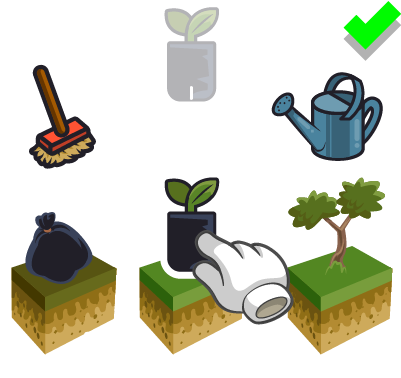
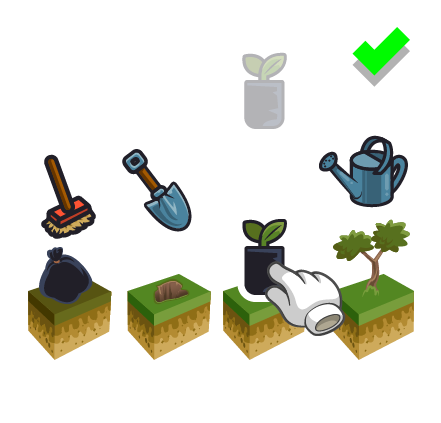
galacticPool changed education fixes and greenRescue changed tutorialImage and education fixes

diff --git a/newStructure/minigames/galacticPool/js/scenes/galacticPool.js b/newStructure/minigames/galacticPool/js/scenes/galacticPool.js
@@ -192,7 +192,6 @@ var galacticPool = function(){
 	var planetsNames;
 	var positionPoolX=[];
 	var positionPoolY=[];
-	var target=[];
 	var handFollowing;
 	var tutoPlanet;
 	var positionX=[];
@@ -258,9 +257,11 @@ var galacticPool = function(){
 
 
 	function reset(){
-		
+
 		for(var resetPlanets=0; resetPlanets<planets.length; resetPlanets++){
 			game.add.tween(planets[resetPlanets].spines).to({alpha:0},1000,Phaser.Easing.Cubic.In,true)
+			game.add.tween(planets[resetPlanets].text).to({alpha:0},1000,Phaser.Easing.Cubic.In,true)
+			game.add.tween(targets[resetPlanets]).to({alpha:0},1000,Phaser.Easing.Cubic.In,true)
 		}
 		if(pointsBar.number>40 && dificulty<2){
 			dificulty++;
@@ -290,14 +291,12 @@ var galacticPool = function(){
 			stickAnimation();
 		});
 	}
-
-
 	function dragging(obj){
 		if(dificulty>=2){
 
 			canCollide=false;
-			obj.body.velocity.setTo(0,0);
-			obj.body.gravity.set(0, 0);
+			obj.body.setZeroVelocity();
+			obj.body.data.shapes[0].sensor= true;
 		}
 		if(dificulty>=3){
 			obj.changing=false;
@@ -402,8 +401,6 @@ var galacticPool = function(){
 			correctParticle.x = planet.centerX;
 			correctParticle.y = planet.centerY;
 			correctParticle.start(true, 1200, null, 10)
-//			planet.body.x=target.x;
-//			planet.body.y=target.y;
 			game.add.tween(planet.body).to({x:target.x,y:target.y},100,Phaser.Easing.Cubic.In,true);
 			planet.text.alpha=1;
 			speedTimer-=200;
@@ -423,14 +420,10 @@ var galacticPool = function(){
 				goal=0;
 				hand.alpha=0
 			}
-
-
 		}else if(!tutorial){
 			missPoint();
 			for(var checkRightPlace=0; checkRightPlace<planets.length; checkRightPlace++){
 				if(planet.tag==targets[checkRightPlace].tag){
-//					planet.body.x=positionX[checkRightPlace];
-//					planet.body.y=positionY[checkRightPlace];
 					game.add.tween(planet.body).to({x:positionX[checkRightPlace],y:positionY[checkRightPlace]},100,Phaser.Easing.Cubic.In,true);
 					planet.text.alpha=1;
 					planet.inputEnabled=false;
@@ -446,46 +439,42 @@ var galacticPool = function(){
 		star.scale.setTo(0.4,0.4)
 		star.anchor.setTo(0.5,0.5)
 		star.tint=0x00ffff
-		
+
 		star2 = game.make.sprite(-300, 0, "atlas.galacticPool",'star_2');
 		star2.scale.setTo(0.5,0.5)
 		star2.anchor.setTo(0.5,0.5)
 		star2.tint=0xff0000
-		
+
 		star3 = game.make.sprite(-300, 0, "atlas.galacticPool",'star_3');
 		star3.scale.setTo(0.5,0.5)
 		star3.anchor.setTo(0.5,0.5)
 		star3.tint=0xffff00
-		
+
 		texture = game.add.renderTexture(game.world.width, game.world.height, 'texture');
 		texture2 = game.add.renderTexture(game.world.width, game.world.height, 'texture2');
 		texture3 = game.add.renderTexture(game.world.width, game.world.height, 'texture3');
 		
-		
-		
-
 		for (var i = 0; i < max; i++)
 		{
 			xx[i] = Math.floor(Math.random() * game.world.width) - 400;
 			yy[i] = Math.floor(Math.random() * game.world.height) - 300;
 			zz[i] = Math.floor(Math.random() * 1700) - 100;
-			
+
 			xx2[i] = Math.floor(Math.random() * game.world.width) - 400;
 			yy2[i] = Math.floor(Math.random() * game.world.height) - 300;
 			zz2[i] = Math.floor(Math.random() * 1700) - 100;
-			
+
 			xx3[i] = Math.floor(Math.random() * game.world.width) - 400;
 			yy3[i] = Math.floor(Math.random() * game.world.height) - 300;
 			zz3[i] = Math.floor(Math.random() * 1700) - 100;
-			
+
 			a1[i]=1;
 			a2[i]=1;
 			a3[i]=1;
 		}
-		
+
 	}
 	function positionTimer(){
-
 		clock=game.add.image(game.world.centerX-150,80,"atlas.time","clock")
 		clock.scale.setTo(.7)
 		timeBar=game.add.image(clock.position.x+40,clock.position.y+40,"atlas.time","bar")
@@ -728,11 +717,11 @@ var galacticPool = function(){
 	}
 
 	function stopGame(win){
-		
-		
+
+
 		sound.play("gameLose")
 		gameActive = false
-		
+
 		tweenScene = game.add.tween(sceneGroup).to({alpha: 0}, 500, Phaser.Easing.Cubic.In, true, 1300)
 		tweenScene.onComplete.add(function(){
 			baseSong.stop()
@@ -797,7 +786,7 @@ var galacticPool = function(){
 	}
 
 	function createBackground(){
-		
+
 		starField();
 		var pivotX;
 		var pivotY=200;
@@ -842,10 +831,10 @@ var galacticPool = function(){
 
 		physicPlanets.enableBody=true;
 		physicPlanets.physicsBodyType = Phaser.Physics.P2JS;
-		
+
 		var back=game.add.tileSprite(0,0,game.world.width,game.world.height,"tile_back");
 		backgroundGroup.add(back)
-		
+
 		controles=game.input.keyboard.createCursorKeys();
 
 		correctParticle = createPart("star")
@@ -855,14 +844,14 @@ var galacticPool = function(){
 		boomParticle = createPart("smoke")
 		sceneGroup.add(boomParticle)
 
-		
+
 		blackHole=game.add.spine(game.world.centerX, game.world.centerY, "blackHole");
 		blackHole.setSkinByName("normal");
 		blackHole.alpha=0.3;
 		blackHole.setAnimationByName(0, "black_hole", true);
 		blackHole.scale.setTo(0.2,0.2)
 		backgroundGroup.add(blackHole)
-		
+
 		planetsNames=[
 			{SKIN:"neptune",word:localization.getString(localizationData,"planet9"),size:0.8},
 			{SKIN:"uranus",word:localization.getString(localizationData,"planet8"),size:0.8},
@@ -910,7 +899,7 @@ var galacticPool = function(){
 		}
 		planets[PLANETS_TOTAL-1].scale.setTo(0.4,0.4);
 
-		
+
 		for(var positionNebuls=0;positionNebuls<TOTAL_PLANETS;positionNebuls++){
 			nebul[positionNebuls]=game.add.sprite(0,0,"atlas.galacticPool","nebula");
 			nebul[positionNebuls].alpha=0;
@@ -996,7 +985,7 @@ var galacticPool = function(){
 	}
 
 	function movingStars(){
-			
+
 		texture.clear();
 		texture2.clear();
 		texture3.clear();
@@ -1006,7 +995,7 @@ var galacticPool = function(){
 			var perspective = distance / (distance - zz[i]);
 			var x = game.world.centerX + xx[i] * perspective;
 			var y = game.world.centerY+ yy[i] * perspective;
-			
+
 
 			zz[i] -= speedStars;
 
@@ -1034,7 +1023,7 @@ var galacticPool = function(){
 			var perspective = distance / (distance - zz3[i]);
 			var x = game.world.centerX + xx3[i] * perspective;
 			var y = game.world.centerY+ yy3[i] * perspective;
-			
+
 			zz3[i] -= speedStars;
 			if (zz3[i] < 100)
 			{
@@ -1044,7 +1033,7 @@ var galacticPool = function(){
 			texture3.renderXY(star3, x, y);
 		}
 	}
-	
+
 
 	function createTextPart(text,obj){
 
@@ -1235,7 +1224,7 @@ var galacticPool = function(){
 			sceneGroup.alpha=1;
 			createBackground()
 			addParticles()
-//			baseSong = sound.play("acornSong", {loop:true, volume:0.6})
+			//			baseSong = sound.play("acornSong", {loop:true, volume:0.6})
 
 			baseSong = game.add.audio('acornSong')
 			game.sound.setDecodedCallback(baseSong, function(){

diff --git a/newStructure/minigames/greenRescue/js/scenes/greenRescue.js b/newStructure/minigames/greenRescue/js/scenes/greenRescue.js
@@ -174,7 +174,7 @@ var greenRescue = function(){
 	var tutorialState
 	var dificulty;
 	var tutorial
-	var checked, allClean,canPlant;
+	var checked, allClean,canPlant,canShovel;
 	var tweenIcon=new Array(9);
 	var colora1,colora2,colora3;
 	var colorb1,colora2,colora3;
@@ -212,8 +212,7 @@ var greenRescue = function(){
 		animations[4]="SODA";
 		animations[5]="TIRE";
 		animations[6]="TV";
-
-		transition=0
+		canShovel=false;
 		canPlant=false;
 		emitter="";
 		tutorial=true;
@@ -1168,6 +1167,7 @@ var greenRescue = function(){
 			if(tutorial){
 				tutorialLevel(tutorialState,obj.tag);
 			}
+			canShovel=true;
 			allClean=0;
 			platform1.alpha=0;
 			platform2.alpha=1;
@@ -1184,7 +1184,7 @@ var greenRescue = function(){
 	function makeHole(obj){
 		var counterToPlant=0;
 		hand.alpha=0;
-		if(estados[obj.tag]==3){
+		if(estados[obj.tag]==3 && canShovel){
 			sound.play("hole");
 			estados[obj.tag]=4;
 			hole[obj.tag].alpha=1;
@@ -1428,6 +1428,7 @@ var greenRescue = function(){
 
 		if(dificulty<9)dificulty++;
 		passingLevel=true;
+		canShovel=false;
 		var witchYogotar=game.rnd.integerInRange(0,1);
 		sound.play("cheers")
 		if(witchYogotar==0){

diff --git a/newStructure/minigames/astronoMetric/js/scenes/astrono.js b/newStructure/minigames/astronoMetric/js/scenes/astrono.js
@@ -491,7 +491,6 @@ var astrono = function(){
 		}
 
 	}
-
 	function startRound(notStarted) {
 		game.add.tween(nameGroup).to({alpha:0}, 500, Phaser.Easing.Cubic.Out, true)
 		game.add.tween(nameGroup.scale).to({x:0.4, y:0.4}, 500, Phaser.Easing.Cubic.Out, true)
@@ -590,7 +589,7 @@ var astrono = function(){
 
 		var clockImage = clock.create(0,0,'atlas.astrono','clock')
 		clockImage.anchor.setTo(0.5,0.5)
-
+		
 		var clockBar = clock.create(-clockImage.width* 0.38,19,'atlas.astrono','bar')
 		clockBar.anchor.setTo(0,0.5)
 		clockBar.width = clockImage.width*0.76
